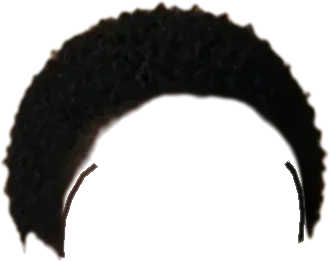
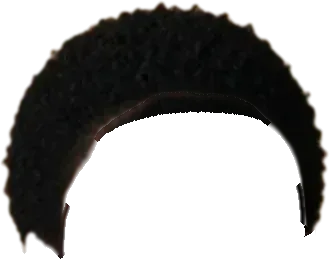
Try-on wigs: the mesh warp is now actually used to draw the wig (it was built but the wig was still placed with a 3-point affine), so the wig's face opening lands on her face outline and the sides hug her temples and cheeks at any tilt; blunt lob, silk press, Senegalese twists and big chop fro cutou

diff --git a/public/tryon.js b/public/tryon.js
@@ -8,7 +8,7 @@
  */
 import {
   LIPS_OUTER, LIPS_INNER, EYE, toPixels, bbox, smoothClosed, smoothOpen, eyeOpenness, headPose,
-  lashLine, wingTip, lidPolygon, browPolygon, blushEllipse, wigAffine, LandmarkSmoother, FACE_OVAL,
+  lashLine, wingTip, lidPolygon, browPolygon, blushEllipse, wigAffine, wigMesh, WIG_RINGS, LandmarkSmoother, FACE_OVAL,
   hexToRgb, tintPixel, browPixel, maskedMeanL, lightnessDetail,
 } from './tryon-geometry.js';
 import { MODEL_FACES } from './model-faces.js';
@@ -513,8 +513,23 @@ function paintWig(L, w, h) {
   // Three anchors (both outer eye corners and the chin) fix scale, width, tilt and position, so the
   // wig's face opening is fitted to her face and follows her head as it tilts or moves.
   const dst = toPixels(L, [EYE.right.outer, EYE.left.outer, 152], w, h);
-  const m = wigAffine([meta.right, meta.left, meta.chin], dst);
-  wctx.save(); wctx.setTransform(m[0], m[1], m[2], m[3], m[4], m[5]); wctx.drawImage(img, 0, 0); wctx.restore();
+  if (!meta.oval) {
+    const m = wigAffine([meta.right, meta.left, meta.chin], dst);
+    wctx.save(); wctx.setTransform(m[0], m[1], m[2], m[3], m[4], m[5]); wctx.drawImage(img, 0, 0); wctx.restore();
+    return;
+  }
+  // Mesh warp: the wig's face opening (the model's 36-point face outline) is mapped ring by ring onto
+  // her face outline, so the hairline sits on her hairline and the sides hug her temples and cheeks
+  // at any tilt. The last ring is wide enough to carry the full length of the hair.
+  const tris = wigMesh(meta.oval, toPixels(L, FACE_OVAL, w, h), [...WIG_RINGS, 9]);
+  for (const { s, d } of tris) {
+    const m = wigAffine(s, d);
+    const gx = (d[0][0] + d[1][0] + d[2][0]) / 3, gy = (d[0][1] + d[1][1] + d[2][1]) / 3;
+    wctx.save(); wctx.beginPath();
+    d.forEach(([x, y], i) => { const l = Math.hypot(x - gx, y - gy) || 1, g = 0.8 / l; const X = x + (x - gx) * g, Y = y + (y - gy) * g; if (i) wctx.lineTo(X, Y); else wctx.moveTo(X, Y); });
+    wctx.closePath(); wctx.clip();
+    wctx.setTransform(m[0], m[1], m[2], m[3], m[4], m[5]); wctx.drawImage(img, 0, 0); wctx.restore();
+  }
 }
 
 function paint(w, h) {
